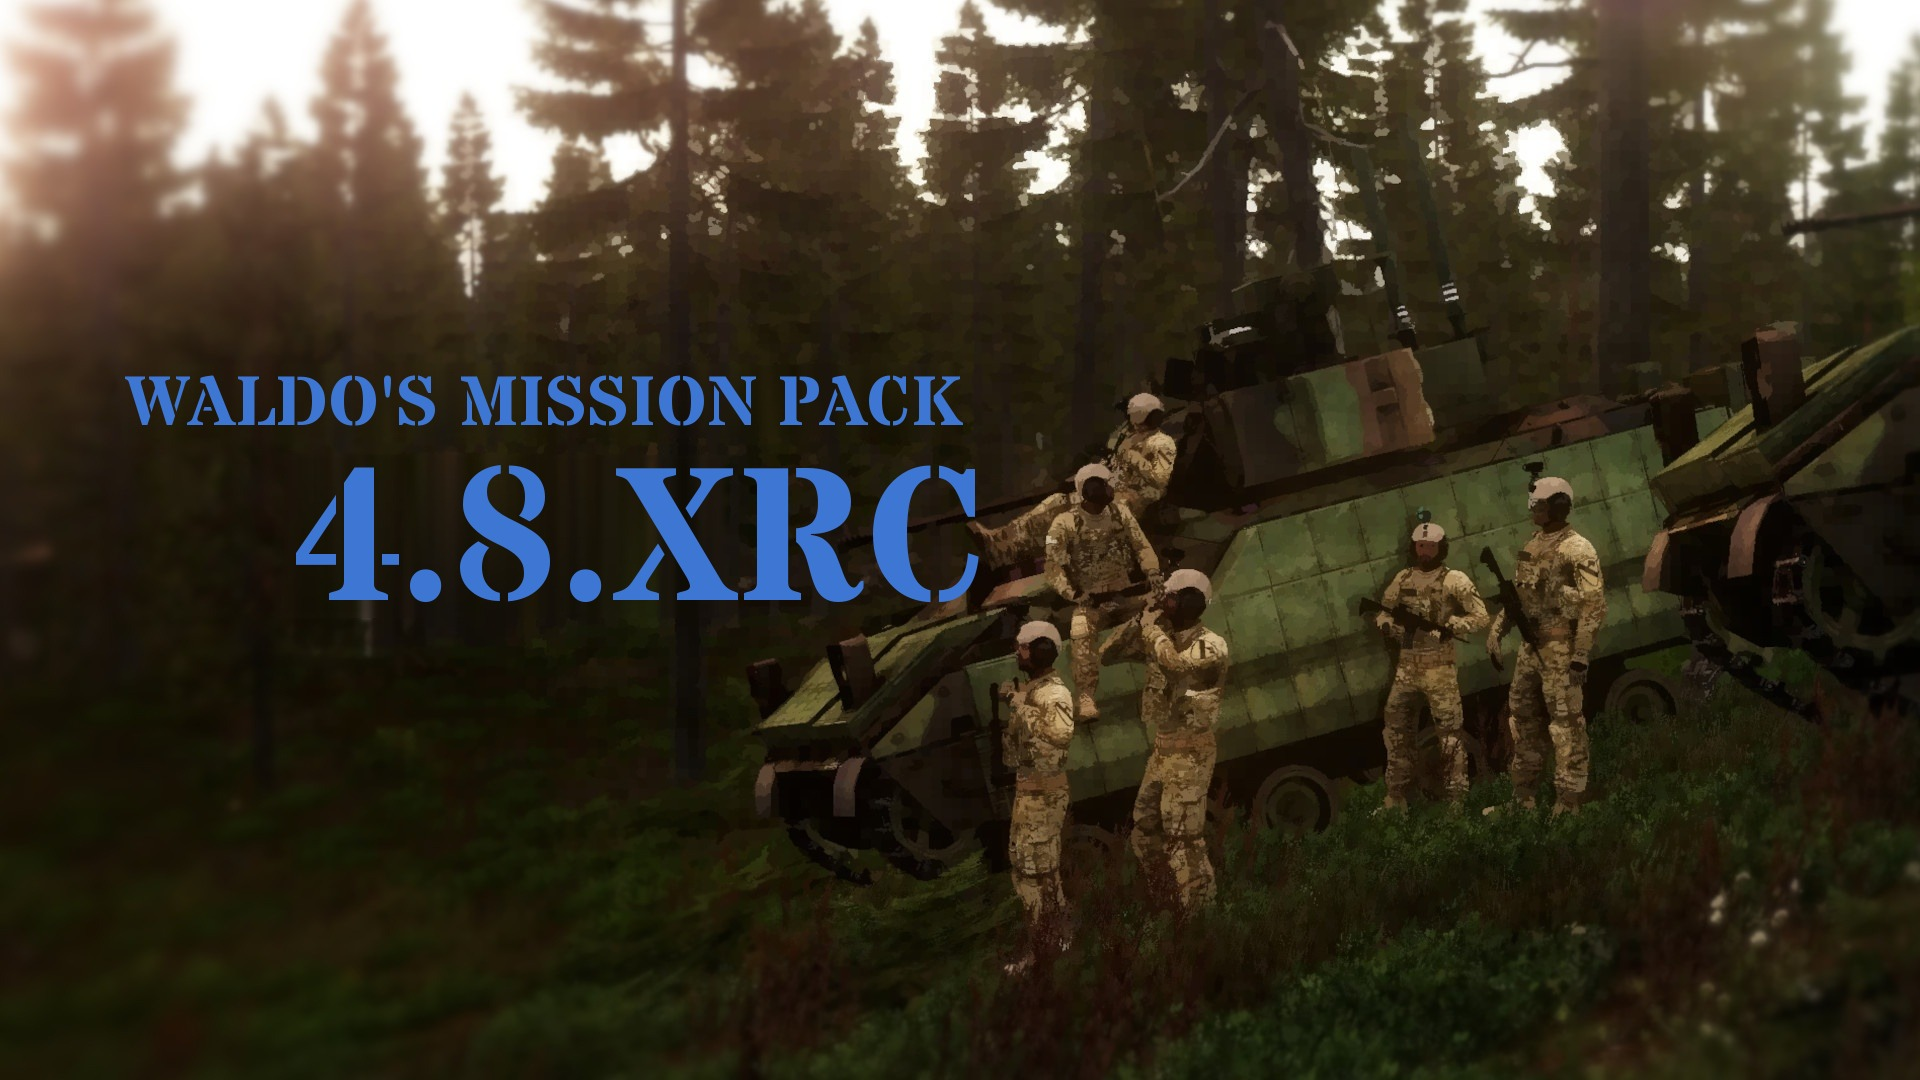
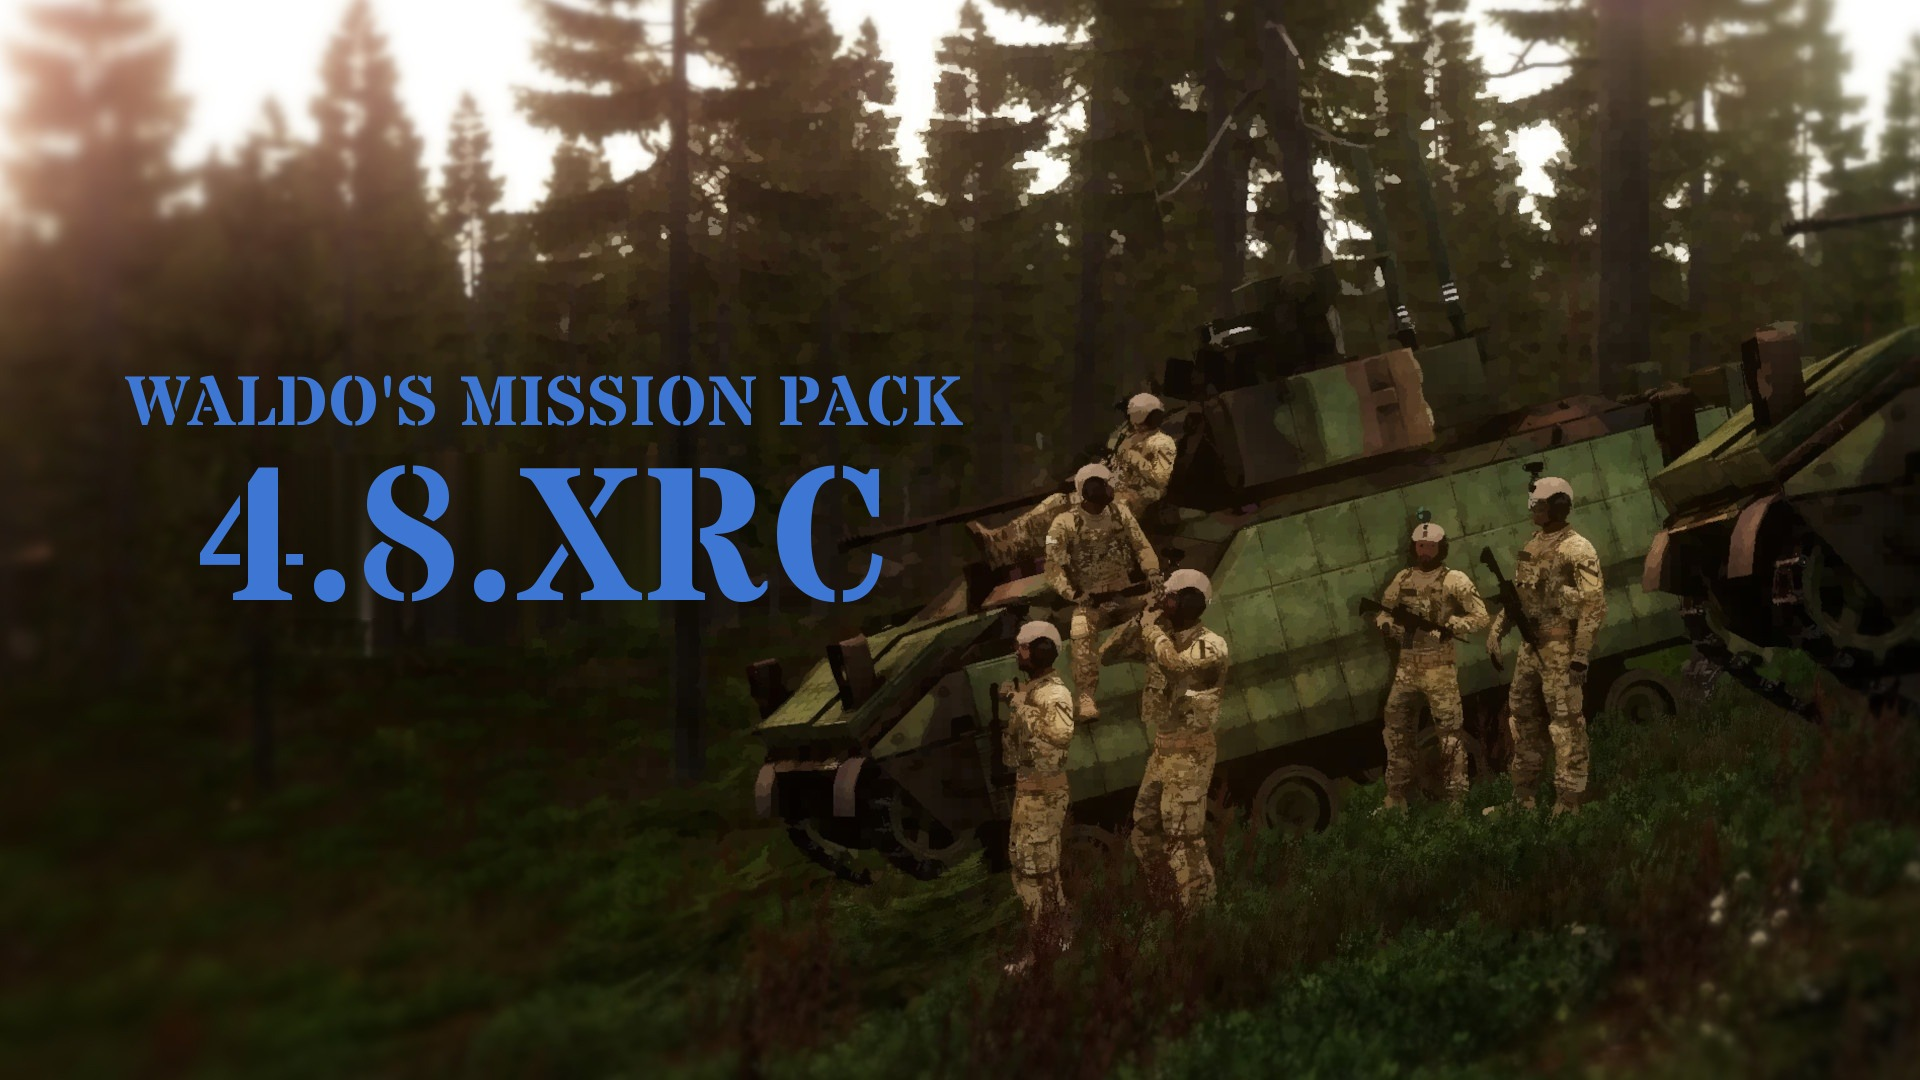
Center release cover and prevent duplicate deploy runs

Changed region(s): [[0.0938, 0.4278, 0.5312, 0.5806]]

diff --git a/releaseVerificationAndDeployment/generateLoadingScreen.py b/releaseVerificationAndDeployment/generateLoadingScreen.py
@@ -38,7 +38,7 @@ TEXT_COLOR = (62, 118, 211)   # steel blue, sampled from the original text
 TITLE_SIZE = 70               # px -> rendered title ~825x51 (original ~822x53)
 TITLE_XY = (125, 375)         # top-left anchor of the visible glyphs
 VERSION_SIZE = 190            # px -> rendered "4.7.2" ~428x137 (original ~424x141)
-VERSION_XY = (292, 465)       # top-left anchor of the visible glyphs
+VERSION_Y = 465               # top anchor; horizontal position is centred under the title
 JPEG_QUALITY = 92
 
 SCRIPT_DIR = os.path.dirname(os.path.realpath(__file__))
@@ -72,6 +72,11 @@ def draw_line(draw, text, font, target_xy):
     draw.text((target_xy[0] - left, target_xy[1] - top), text, font=font, fill=TEXT_COLOR)
 
 
+def centered_x(container_x, container_width, child_width):
+    """Return the visible-glyph X coordinate that shares the container's centreline."""
+    return round(container_x + ((container_width - child_width) / 2))
+
+
 def main():
     parser = argparse.ArgumentParser(description="Generate the WMP loading screen.")
     parser.add_argument("version", nargs="?", help="Version to render (default: from description.ext)")
@@ -103,8 +108,15 @@ def main():
 
     image = Image.open(args.base).convert("RGB")
     draw = ImageDraw.Draw(image)
-    draw_line(draw, TITLE_TEXT, ImageFont.truetype(args.font, TITLE_SIZE), TITLE_XY)
-    draw_line(draw, version, ImageFont.truetype(args.font, VERSION_SIZE), VERSION_XY)
+    title_font = ImageFont.truetype(args.font, TITLE_SIZE)
+    version_font = ImageFont.truetype(args.font, VERSION_SIZE)
+    title_box = draw.textbbox((0, 0), TITLE_TEXT, font=title_font)
+    version_box = draw.textbbox((0, 0), version, font=version_font)
+    title_width = title_box[2] - title_box[0]
+    version_width = version_box[2] - version_box[0]
+    version_x = centered_x(TITLE_XY[0], title_width, version_width)
+    draw_line(draw, TITLE_TEXT, title_font, TITLE_XY)
+    draw_line(draw, version, version_font, (version_x, VERSION_Y))
 
     os.makedirs(os.path.dirname(args.out), exist_ok=True)
     image.save(args.out, "JPEG", quality=JPEG_QUALITY)

diff --git a/releaseVerificationAndDeployment/test_full_arma_audit.py b/releaseVerificationAndDeployment/test_full_arma_audit.py
@@ -67,6 +67,8 @@ class FullAuditTests(unittest.TestCase):
         self.assertIn("generateLoadingScreen.py", workflow)
         self.assertIn("$GITHUB_OUTPUT", workflow)
         self.assertNotIn("::set-output", workflow)
+        self.assertIn("types: [published]", workflow)
+        self.assertNotIn("published, prereleased", workflow)
 
     def test_release_version_helper_persists_the_complete_rc_tag(self):
         cover_source = (
@@ -109,6 +111,7 @@ class FullAuditTests(unittest.TestCase):
             description = Path(directory) / "description.ext"
             description.write_text(placeholder, encoding="utf-8")
             self.assertEqual("4.8.XRC", cover.parse_version_from_desc(str(description)))
+        self.assertEqual(300, cover.centered_x(100, 500, 100))
 
     def test_composition_catalogue_uses_current_public_calls_and_locality_guards(self):
         root = ROOT / "WMP_Compositions"
